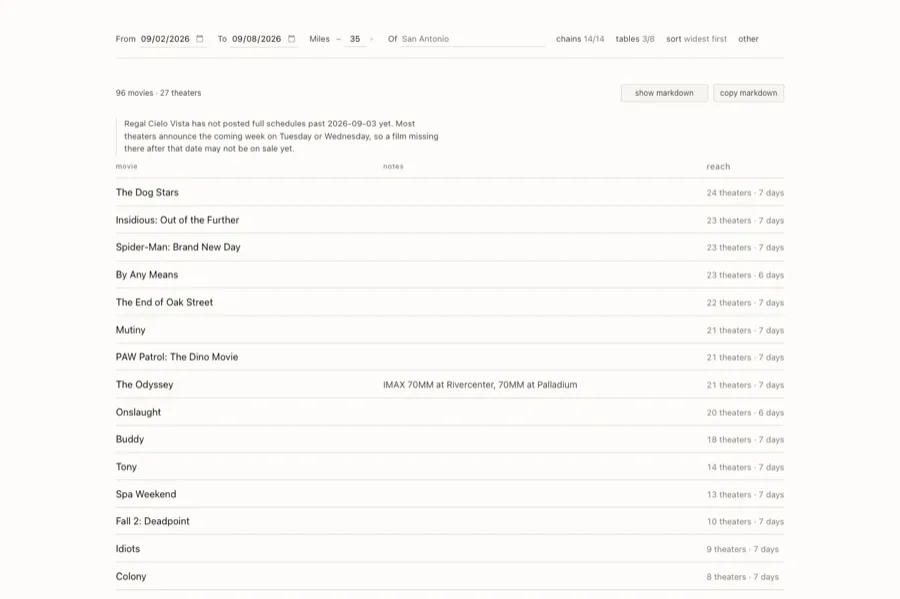
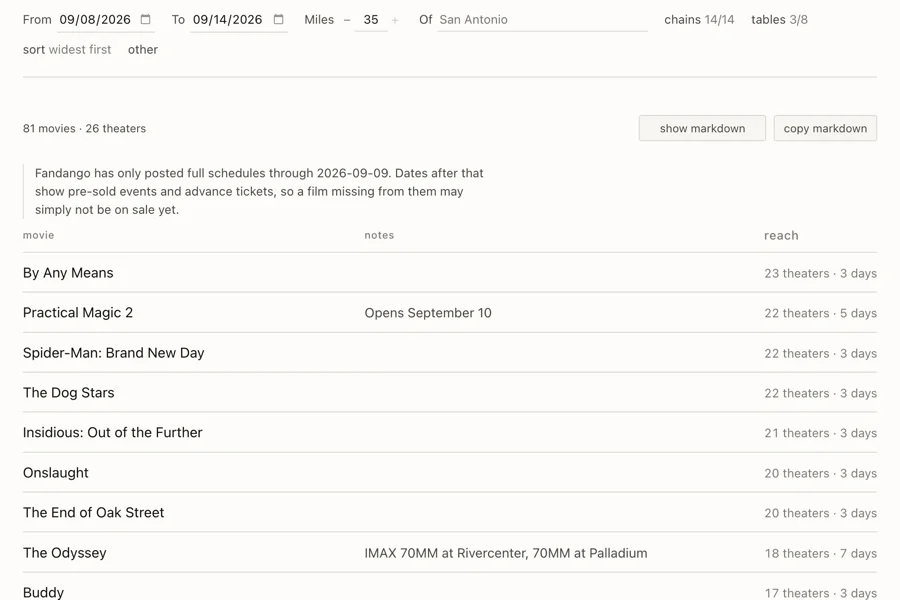
chore(projects): recapture FilmScraper thumbnail at higher zoom

diff --git a/home/src/data/projects.js b/home/src/data/projects.js
@@ -99,7 +99,7 @@ export const projectsData = [
     github: "https://github.com/rosematcha/filmscraper",
     thumbnail: "/img/projects/filmscraper-thumb.webp",
     thumbnailWidth: 900,
-    thumbnailHeight: 599,
+    thumbnailHeight: 600,
     description:
       "Wanting a more user-friendly view of movies showing in town, I created a minimal frontend utilizing data from Fandango.",
     tech: ["typescript", "playwright", "netlify"],
